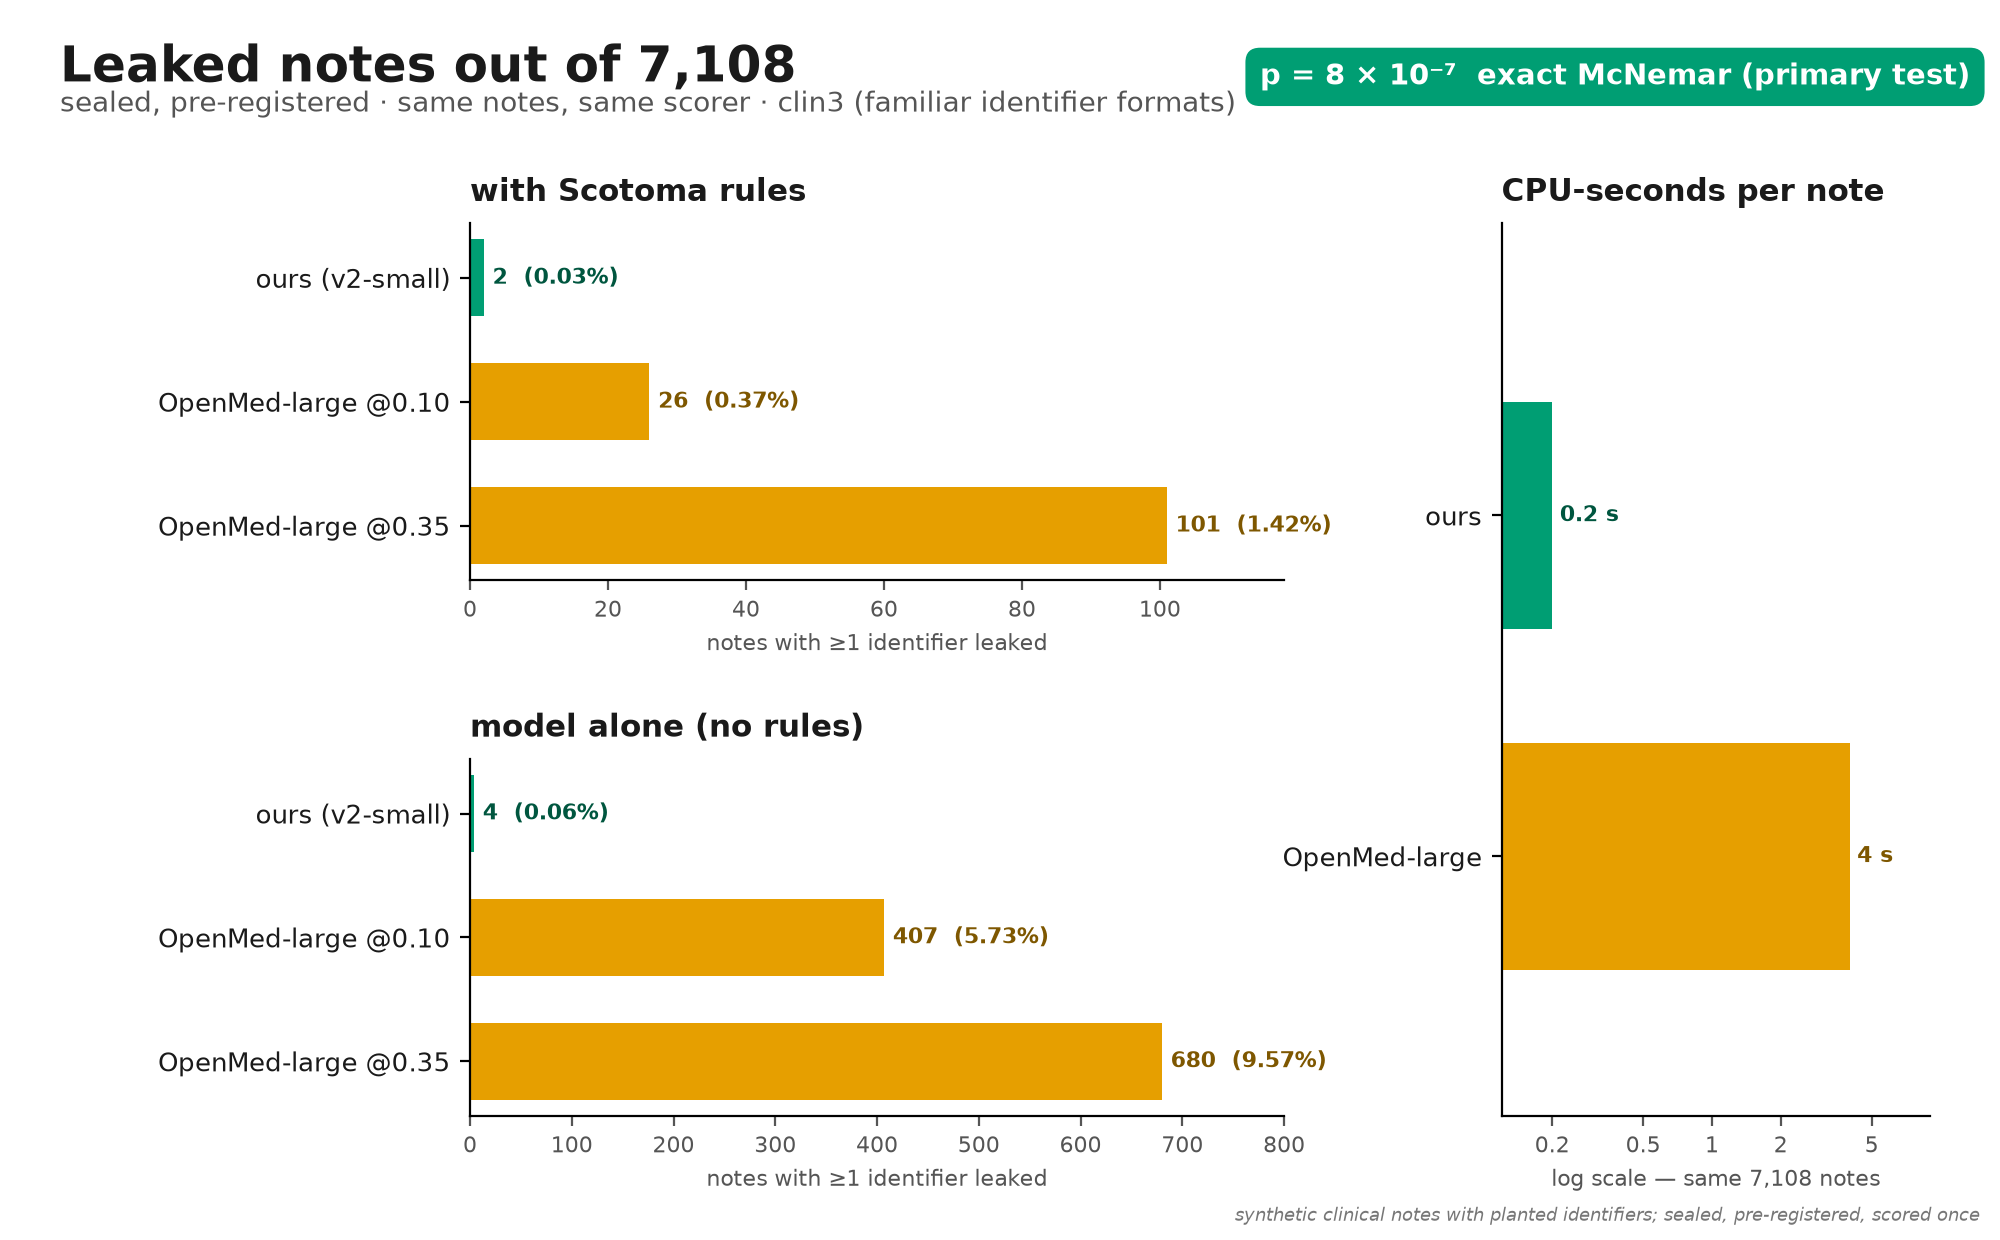
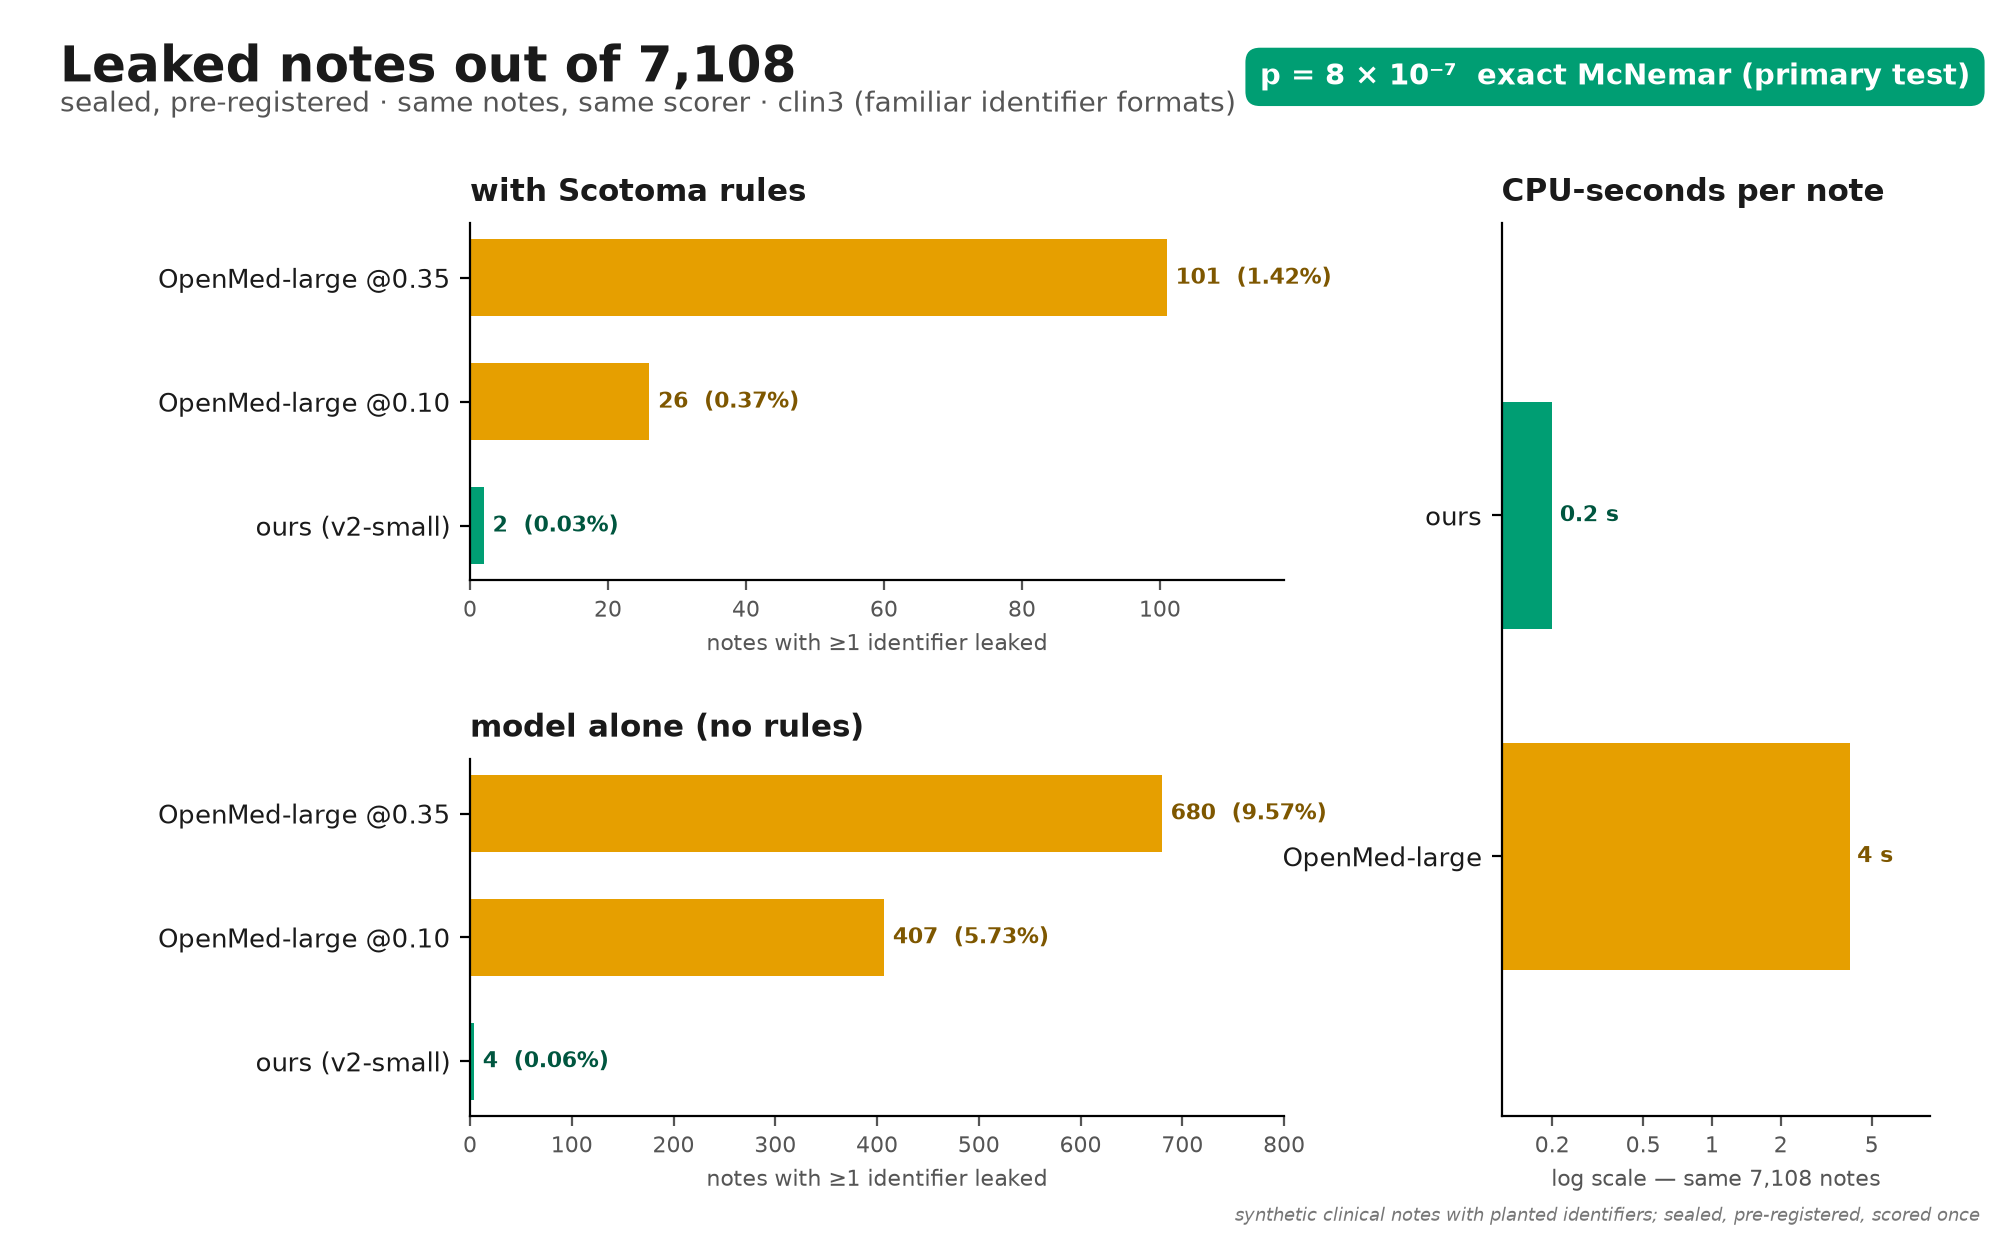
before_after figure + real repo ids; hero bar order
- before_after.png: note rendered as a clean PNG via PIL (not cupsfilter),
  scotoma redact-file, re-OCR'd with scotoma-helper — zero planted strings
  or fragments survive; clinical text (Graves, Bell's palsy, Metoprolol,
  HR 88, 97%) verified present. Vitals '148/92'/'SpO2' are boxed by the
  engine (false positives) — disclosed in the caption, as-is per review.
- thumbnail → DJLougen/scotoma-clinical-deid; card links
  github.com/DJLougen/scotoma.
- hero: 'ours' bar on top in both panels.

diff --git a/plots/make_card_figures.py b/plots/make_card_figures.py
@@ -185,6 +185,7 @@ def fig_hero():
         (roml10["docs_with_leak"], C_OML, "OpenMed-large @0.10"),
         (rours["docs_with_leak"], C_OURS, "ours (v2-small)"),
     ])
+    ax_a.invert_yaxis()
     ax_a.set_xlim(0, 118)
     ax_a.set_xlabel("notes with ≥1 identifier leaked", fontsize=8, color="#555555")
 
@@ -194,6 +195,7 @@ def fig_hero():
         (oml10["docs_with_leak"], C_OML, "OpenMed-large @0.10"),
         (ours["docs_with_leak"], C_OURS, "ours (v2-small)"),
     ])
+    ax_b.invert_yaxis()
     ax_b.set_xlim(0, 800)
     ax_b.set_xlabel("notes with ≥1 identifier leaked", fontsize=8, color="#555555")
 
@@ -595,13 +597,47 @@ def fig_pipeline():
 
 
 # ---------------------------------------------------------------- figure 7
+def _render_note(src: Path, out: Path):
+    """Render the example note as a clean letter-size page image (200 dpi)."""
+    from PIL import Image, ImageDraw, ImageFont
+    import glob
+    mono = glob.glob(str(ROOT / ".venv/lib/python*/site-packages/"
+                         "matplotlib/mpl-data/fonts/ttf/DejaVuSansMono.ttf"))
+    mono = mono[0] if mono else "/System/Library/Fonts/SFNSMono.ttf"
+    monob = mono.replace("Mono.ttf", "Mono-Bold.ttf")
+    if not Path(monob).exists():
+        monob = mono
+    W, H = 1700, 2200
+    img = Image.new("RGB", (W, H), "white")
+    d = ImageDraw.Draw(img)
+    fh = ImageFont.truetype(monob, 40)
+    fb = ImageFont.truetype(mono, 32)
+    x = 120
+    d.text((x, 120), "RIVERSIDE CLINIC — INTERNAL NOTE", font=fh, fill="#222222")
+    d.line((x, 195, W - x, 195), fill="#bbbbbb", width=3)
+    y, lh = 270, int(32 * 1.7)
+    for para in src.read_text().rstrip("\n").split("\n"):
+        line = ""
+        for w in para.split():
+            if len(line) + len(w) + 1 > 72:
+                d.text((x, y), line, font=fb, fill="#111111")
+                y += lh
+                line = w
+            else:
+                line = (line + " " + w).strip()
+        d.text((x, y), line, font=fb, fill="#111111")
+        y += lh
+    img.save(out)
+
+# ---------------------------------------------------------------- figure 7
 def fig_before_after():
-    out_png = ASSETS / "before_after.png"
     scotoma = ROOT / "target" / "release" / "scotoma"
     helper = ROOT / "app" / "src-tauri" / "bin" / "scotoma-helper"
     src = ROOT / "examples" / "21_hard_caps_and_bare_names.txt"
     needles = ["OKONKWO", "THADDEUS", "Marisol", "Reyes", "Larchmont", "Waukegan",
                "60085", "7KQ-2291", "555-0193", "00418827", "June", "03/14/2025"]
+    # clinical words that must NOT be boxed
+    keeps = ["Graves", "Bell", "palsy", "Metoprolol", "HR 88", "97%", "Intake"]
 
     def _skip(reason):
         for p in (ASSETS / "before_after.png", DOCS_IMG / "before_after.png"):
@@ -609,23 +645,22 @@ def fig_before_after():
         print(f"before_after: {reason} — figure NOT shipped", file=sys.stderr)
         PLOTTED["before_after"] = f"skipped: {reason}"
 
-    if not (scotoma.exists() and helper.exists() and shutil.which("cupsfilter")
-            and shutil.which("sips")):
+    if not (scotoma.exists() and helper.exists()):
         _skip("required tool missing")
         return
 
     with tempfile.TemporaryDirectory() as td:
         td = Path(td)
-        in_pdf, out_pdf = td / "in.pdf", td / "out.pdf"
-        with open(in_pdf, "wb") as f:
-            subprocess.run(["cupsfilter", str(src)], stdout=f, check=True)
-        subprocess.run([str(scotoma), "redact-file", str(in_pdf), str(out_pdf),
-                        "--model", str(ROOT / "models" / "v2-small")], check=True,
-                       capture_output=True)
-        ocr = subprocess.run([str(helper), "ocr-boxes", str(out_pdf)],
+        in_png, out_png = td / "in.png", td / "out.png"
+        _render_note(src, in_png)
+        subprocess.run([str(scotoma), "redact-file", str(in_png), str(out_png),
+                        "--model", str(ROOT / "models" / "v2-small")],
+                       check=True, capture_output=True)
+        ocr = subprocess.run([str(helper), "ocr-boxes", str(out_png)],
                              check=True, capture_output=True)
         pages = json.loads(ocr.stdout)["pages"]
         text = " ".join(l["text"] for p in pages for l in p["lines"])
+
         leaks = [n for n in needles if n.lower() in text.lower()]
         # partial-box check: an OCR'd word that is itself a long fragment of a
         # planted value (edge bleed around a box) is still a leak even when no
@@ -647,26 +682,37 @@ def fig_before_after():
             _skip(f"OCR found leaks {leaks}")
             return
 
-        before, after = td / "before.png", td / "after.png"
-        subprocess.run(["sips", "-s", "format", "png", "-s", "dpiWidth", "150",
-                        "-s", "dpiHeight", "150", str(in_pdf), "--out", str(before)],
-                       check=True, capture_output=True)
-        subprocess.run(["sips", "-s", "format", "png", "-s", "dpiWidth", "150",
-                        "-s", "dpiHeight", "150", str(out_pdf), "--out", str(after)],
-                       check=True, capture_output=True)
+        missing = [k for k in keeps if k.lower() not in text.lower()]
+        if missing:
+            _skip(f"clinical text over-redacted: {missing}")
+            return
 
-        ib, ia = plt.imread(before), plt.imread(after)
-        PLOTTED["before_after"] = {"planted_checked": needles, "leaks": []}
+        # vitals the engine boxes anyway — shown honestly in the caption
+        vitals_boxed = [k for k in ("148/92", "SpO2")
+                        if k.lower() not in text.lower()
+                        and k.lower().replace("o", "0") not in text.lower()]
 
-    fig = newfig(10, 7.2)
-    fig.suptitle("A scan in, a clean scan out — on-device",
-                 x=0.03, y=0.965, ha="left", fontsize=15, fontweight="bold", color=C_INK)
-    fig.text(0.03, 0.925,
+        ib, ia = plt.imread(in_png), plt.imread(out_png)
+        PLOTTED["before_after"] = {
+            "planted_checked": needles, "leaks": [],
+            "kept_checked": keeps, "vitals_boxed": vitals_boxed,
+        }
+
+    fig = newfig(10, 6.8)
+    fig.suptitle("A page in, a clean page out — on-device",
+                 x=0.03, y=0.96, ha="left", fontsize=15, fontweight="bold", color=C_INK)
+    fig.text(0.03, 0.912,
              "synthetic example note (examples/21_hard_caps_and_bare_names.txt) — "
-             "OCR word boxes → detected identifiers → black boxes, nothing sent anywhere",
+             "on-device OCR → detected identifiers → black boxes, nothing sent anywhere",
              ha="left", fontsize=9, color="#555555")
+    if vitals_boxed:
+        fig.text(0.03, 0.878,
+                 "over-redaction shown as-is: "
+                 + " and ".join(f"“{v}”" for v in vitals_boxed)
+                 + " boxed (false positives on vitals)",
+                 ha="left", fontsize=8.5, color="#8a5a00")
     for i, (img, t) in enumerate([(ib, "before"), (ia, "after  ·  scotoma redact-file")]):
-        ax = fig.add_axes([0.04 + i * 0.50, 0.05, 0.44, 0.83])
+        ax = fig.add_axes([0.04 + i * 0.50, 0.04, 0.43, 0.78])
         ax.imshow(img)
         ax.set_title(t, fontsize=11, fontweight="bold",
                      color=C_INK if i == 0 else darken(C_OURS))

diff --git a/release/hf/scotoma-clinical-deid-v2/README.md b/release/hf/scotoma-clinical-deid-v2/README.md
@@ -12,18 +12,21 @@ tags:
 - clinical
 datasets:
 - nvidia/Nemotron-PII
-thumbnail: https://huggingface.co/{{HF_REPO}}/resolve/main/assets/hero.png
+thumbnail: https://huggingface.co/DJLougen/scotoma-clinical-deid/resolve/main/assets/hero.png
 ---
 
 # Scotoma Clinical De-Identification v2 (small)
 
-`v2-small` is the token classifier inside [Scotoma](#), an on-device clinical
+`v2-small` is the token classifier inside [Scotoma](https://github.com/DJLougen/scotoma), an on-device clinical
 PHI redaction app for macOS (Tauri + Rust). It is
 `microsoft/deberta-v3-small` (141M parameters, 98M of which are the embedding
 table) fine-tuned to tag 21 HIPAA Safe-Harbor-style identifier categories, then
 exported to ONNX and quantized to per-channel int8.
 
 <p align="center"><img src="assets/hero.png" alt="Sealed 3: 2 leaked notes out of 7,108 vs 26 for rules+OpenMed-large@0.10" width="900"></p>
+
+<p align="center"><img src="assets/before_after.png" alt="rendered clinical note before and after scotoma redact-file" width="900"><br>
+<sub>Over-redaction shown as-is: “148/92” and the OCR’d “Sp02” were boxed (false positives on vitals); every planted identifier was covered.</sub></p>
 
 | | |
 |---|---|

diff --git a/README.md b/README.md
@@ -13,6 +13,9 @@ Apache-2.0. See [NOTICE](NOTICE) for the data and model credits.
 
 <p align="center"><img src="docs/img/hero.png" alt="Sealed 3: 2 leaked notes out of 7,108 vs 26 for the strongest competitor" width="1000"></p>
 
+<p align="center"><img src="docs/img/before_after.png" alt="a rendered note before and after scotoma redact-file" width="1000"><br>
+<sub>Over-redaction shown as-is: “148/92” and the OCR’d “Sp02” were boxed (false positives on vitals); every planted identifier was covered.</sub></p>
+
 ## Benchmark headline
 
 Measured on **sealed** planted-identifier clinical sets — scored exactly once under a committed
